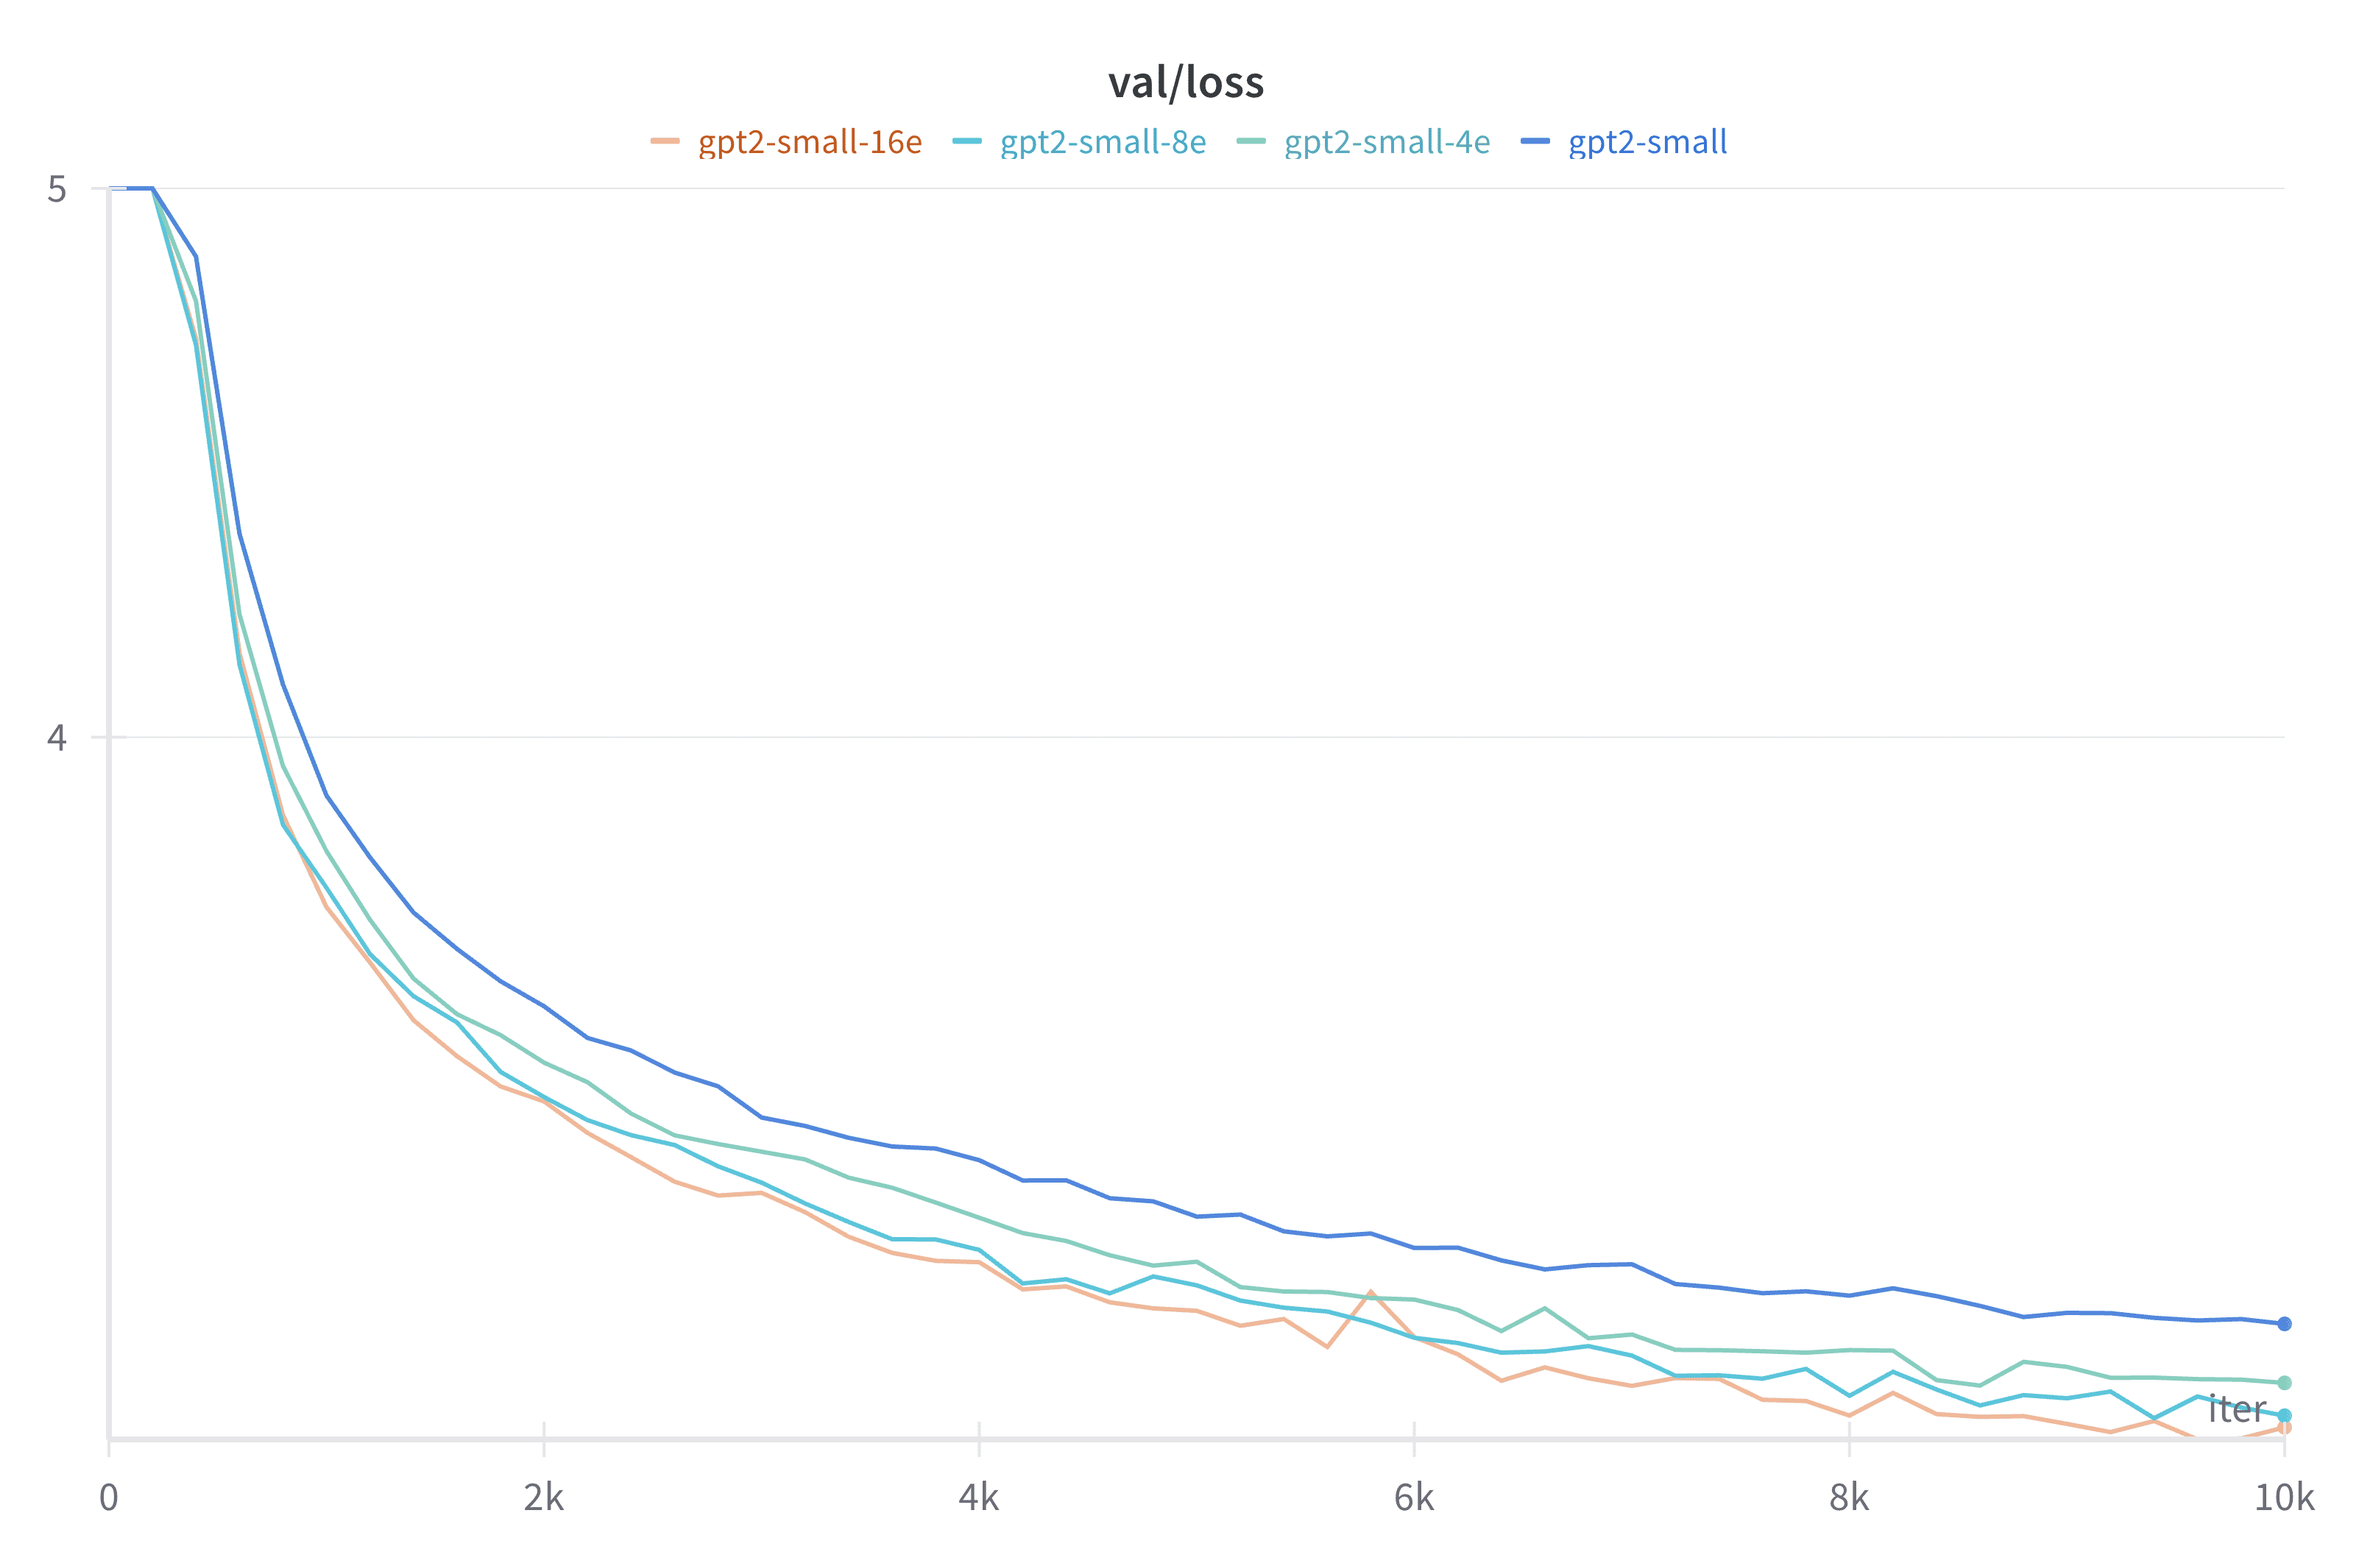
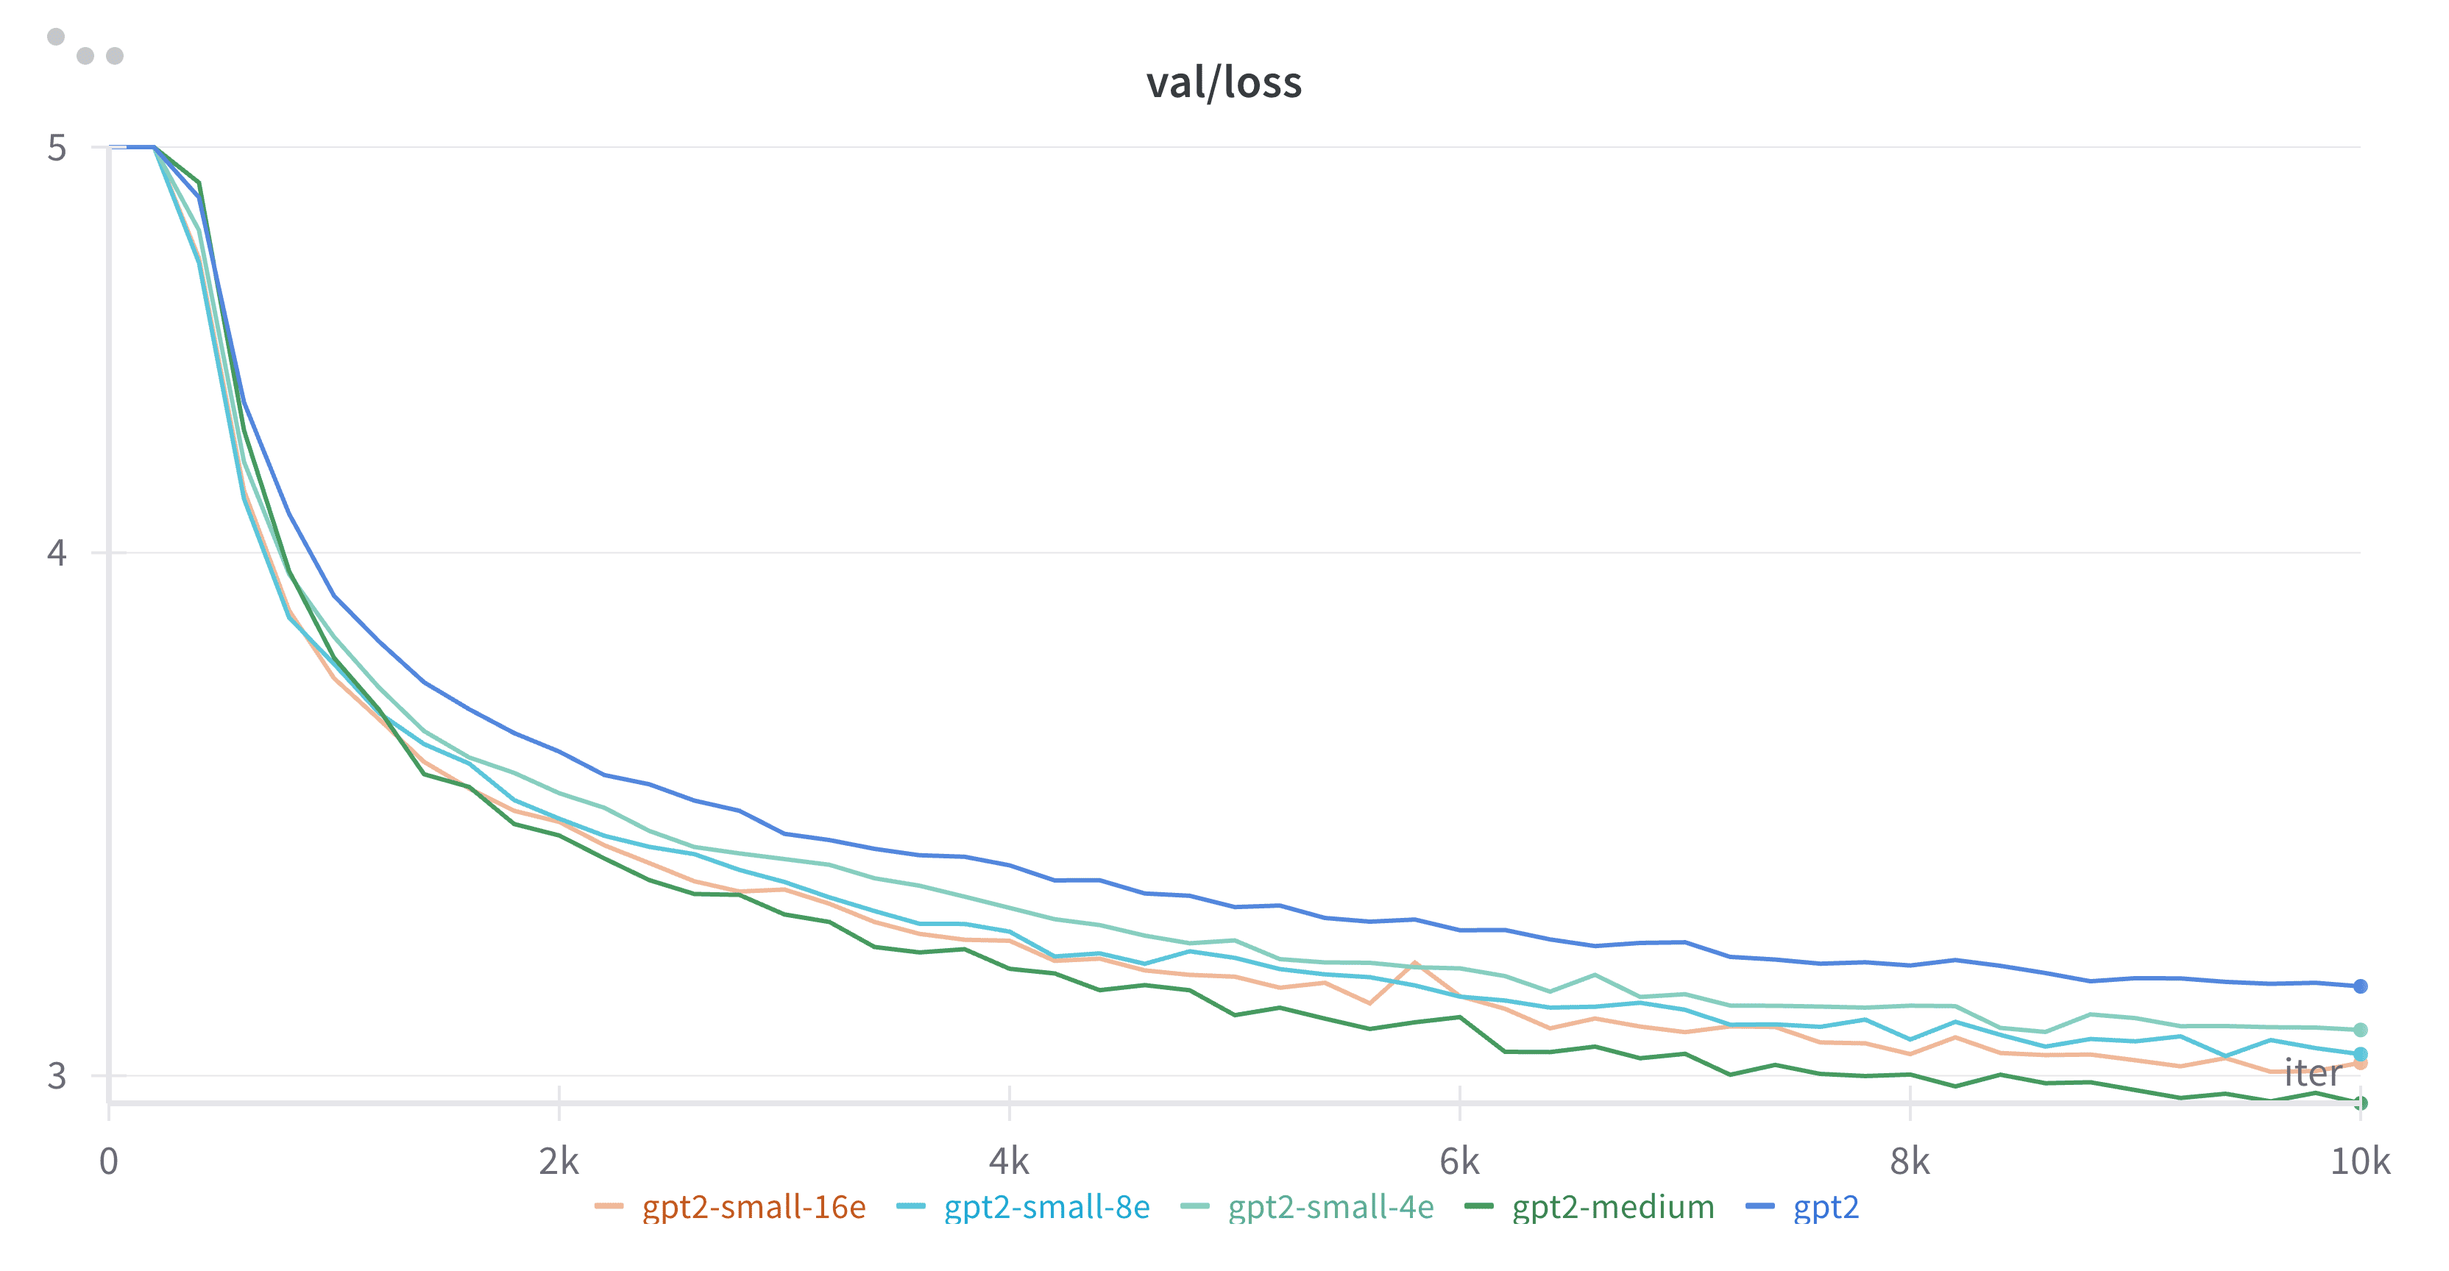
more results

diff --git a/_posts/2025-03-23-nano-moe.md b/_posts/2025-03-23-nano-moe.md
@@ -1,12 +1,12 @@
 ---
 layout: article
-title: "NanoMoE: Implementing Mixture of Experts architectures on top of NanoGPT"
+title: "NanoMoE: Extending NanoGPT with Mixture of Experts"
 tags: nlp deep-learning llm
 ---
 
 # Intro
 
-Mixture of Experts (MoE) has become increasingly popular in the LLM community, and for good reason. These models effectively maintain the scaling laws originally established for dense models while keeping inference costs relatively manageable – a compelling advantage in our era of ever-growing language models. To better understand how MoE architectures actually work under the hood, I decided to extend Andrej Karpathy's minimalist [nanoGPT](https://github.com/karpathy/nanoGPT) repository to support MoE architecture.
+Mixture of Experts (MoE) has become increasingly popular in the LLM community, and for good reason. These models effectively maintain the scaling laws originally established for dense models while keeping inference costs relatively manageable – a compelling advantage in our era of ever-growing language models. To better understand how MoE architectures actually work under the hood, I decided to extend Andrej Karpathy's awesome [nanoGPT](https://github.com/karpathy/nanoGPT) repository to support MoE architecture.
 
 The modification turned out to be quite straightforward: I adapted the feed-forward network (FFN) component of the GPT-2 architecture to use the Mixture of Experts approach and ran a series of small-scale pre-training experiments to gain some hands-on insights about training MoE models. Through these experiments, I was able to verify some of the core claims from Google's seminal 2021 paper [Switch Transformers: Scaling to Trillion Parameter Models with Simple and Efficient Sparsity](https://arxiv.org/abs/2101.03961).
 
@@ -149,51 +149,46 @@ This is the core advantage of MoE that seems almost too good to be true. With th
 When you think about it, this makes perfect sense. Due to the sparse architecture, MoE effectively disentangles the number of model parameters from the model FLOPS. As we add more experts, the parameter count increases while computational requirements remain stable. So it's no surprise that model performance improves, aligning perfectly with established scaling laws.
 
 ![](/assets/images/posts/nanomoe/switch_transformer_scaling_moe_plot.png)
+
+*Figure 1: Performance scaling of Switch Transformer models with increasing expert count*
+
 ![](/assets/images/posts/nanomoe/scaling_moe_plot.png)
 
-From the plot above on the top (from the original Switch Transformers paper), you can see how scaling T5-base to 16, 32, 64, and 128 experts leads to corresponding performance gains. My experiments, shown in the plot above on the bottom, tell the same story – the loss curves get progressively lower as we add more experts to GPT2-small. While the metrics differ between the two plots (negative log perplexity vs. raw loss), the trend is identical: more experts yield better performance at the same computational cost.
+*Figure 2: Performance scaling of GPT2-MoE models with increasing expert count*
 
-## 2. Compared with dense model, you can achieve same level performance with less model FLOPS.
+From *Figure 1* (from the original Switch Transformers paper), you can see how scaling T5-base to 16, 32, 64, and 128 experts leads to corresponding performance gains. My experiments, shown in *Figure 2*, tell the same story – the loss curves get progressively lower as we add more experts to GPT2-small. While the metrics differ between the two plots (negative log perplexity vs. raw loss), the trend is identical: more experts yield better performance at the same computational cost.
 
-## 3. Under the same amount of parameters, MoE models underperforms Dense Model significantly.
+## 2. MoE models achieve comparable performance to larger dense models with significantly lower FLOPS
 
-## 4. Load Balance Loss
+![](/assets/images/posts/nanomoe/switch_transformer_dense_vs_moe.png)
+
+*Figure 3: Switch Transformer with the same FLOPS as T5-base matches the performance of T5-large (3.5x the FLOPS of T5-base)*
+
+Another compelling insight from the Switch Transformer paper is that a computationally-equivalent MoE model substantially outperforms its dense counterpart. As demonstrated in Figure 3 above, a model using T5-base architecture with 64 MoE experts not only surpasses T5-base itself but can match the performance of T5-large – which requires 3.5x the computational resources.
+
+My experiments with GPT-2 show similar results. In Figure 2, you can see that as we increase the number of experts, our MoE variants of GPT2-small approach the performance of GPT2-medium (which requires 3.5x the FLOPS of GPT2-small). While my largest experiment with 16 experts doesn't quite reach GPT2-medium performance levels, the trend is clear. Extrapolating from these results, we can reasonably predict that scaling to 32 or 64 experts would likely match or exceed GPT2-medium's performance – all while maintaining the computational efficiency of the smaller model.
+
+## 3. Parameter Efficiency: MoE models require significantly more parameters than dense models for equivalent performance
+
+A corollary to point #2 is that when comparing models with similar parameter counts (rather than FLOPS), MoE models actually underperform their dense counterparts by a substantial margin. As Figure 2 and the table below demonstrate, even though GPT-2 small with 8 and 16 experts has more parameters than GPT-2 medium, it still doesn't match the dense model's performance:
+
+| Model                  | Parameters | Val loss after 10k steps |
+|------------------------|------------|--------------------------|
+| GPT-2 Small            | 124M       | 3.151                    |
+| GPT-2 Small 4 experts  | 293M       | 3.076                    |
+| GPT-2 Small 8 experts  | 520M       | 3.036                    |
+| GPT-2 Small 16 experts | 973M       | 3.021                    |
+| GPT-2 Medium           | 353M       | 2.955                    |
+
+This raises an interesting question: how many parameters would an MoE model need to match a dense model's performance? Using the findings from the Switch Transformer paper (where T5-base with 64 experts matches T5-large's performance), we can estimate that it would take GPT2-small with 64 experts to match GPT2-medium's performance. That would translate to approximately 3.6B parameters - an order of magnitude more than GPT2-medium's 353M parameters.
+
+This highlights the fundamental trade-off of MoE architectures: they offer remarkable computational efficiency but require substantially more parameters to achieve the same performance as dense models. This parameter inefficiency is the price we pay for the computational benefits - a worthwhile exchange in many practical scenarios where inference costs or latency are primary concerns.
+
+## 4. 
+
+## 5. Load Balance Loss
 
 
-结论 1：
-
-以GPT-2（124M）模型为基础，我们对其FFN层进行了MoE（Mixture of Experts）化处理。随着专家数量（2, 4, 8, 16）的逐步增加，模型的收敛曲线显示出模型效果显著提升，趋势符合scaling law
-结论 2：相比 Dense 模型，MoE能用更小的 FLOPS 数达到相同的模型效果
-* 随着专家数增多，MoE 模型的效果逐渐接近 GPT-2-medium (353M), 按照当前的结论外推，switch transformers 中说的 64 experts 能够打平3 倍大的 dense 完全可信
-结论 3：在相同参数量下，MoE 模型弱于 Dense 模型
-switch transformers 中一直在谈模型 的FLOPS，基本对应模型推理成本，但是闭口不谈模型参数量，其实很鸡贼。
-其实，同等参数量下，Dense 模型要比 MoE 强不少。
-
-
-
-
-到底多大的 MoE 模型才能和 Dense 模型效果持平?
-Switch Transformers 结论: 64 experts 的 MoE T5-Base 略强于和 T5-Large （3.5X FLOPS vs. T5-Base）
-
-迁移到 GPT2结构上结论应该也是 hold 的。那么 64 experts 的 GPT2 有多大呢?
-model
-num of params
-GPT-2
-124M
-GPT-2 medium
-353M
-GPT-2 large
-774M
-GPT-2 MoE - 8 expert
-520M
-GPT-2 MoE - 16 expert
-973M
-GPT-2 MoE - 32 expert
-1.8B
-GPT-2 MoE - 64 expert
-3.6B
-也就是说，对于 MoE 来说，需要 32 expert 或者 64 expert 才能和 GPT-2 medium 效果对齐. 即 MoE 1.8B - 3.6B  vs. Dense 353M. 
-如果从总参数量的角度叙事，瞬间 MoE 就没那么有吸引力了，远不如从 FLOPS 角度的故事漂亮
 结论 4：在相同参数量下，MoE 模型可以通过增加 top_k 或者 shared expert 来提高模型的效果
 
 虽然总参数量不变，但是增加 top_k 或者 shared expert 能够增加模型的 active params, 即推理 FLOPS，模型效果能够提升
